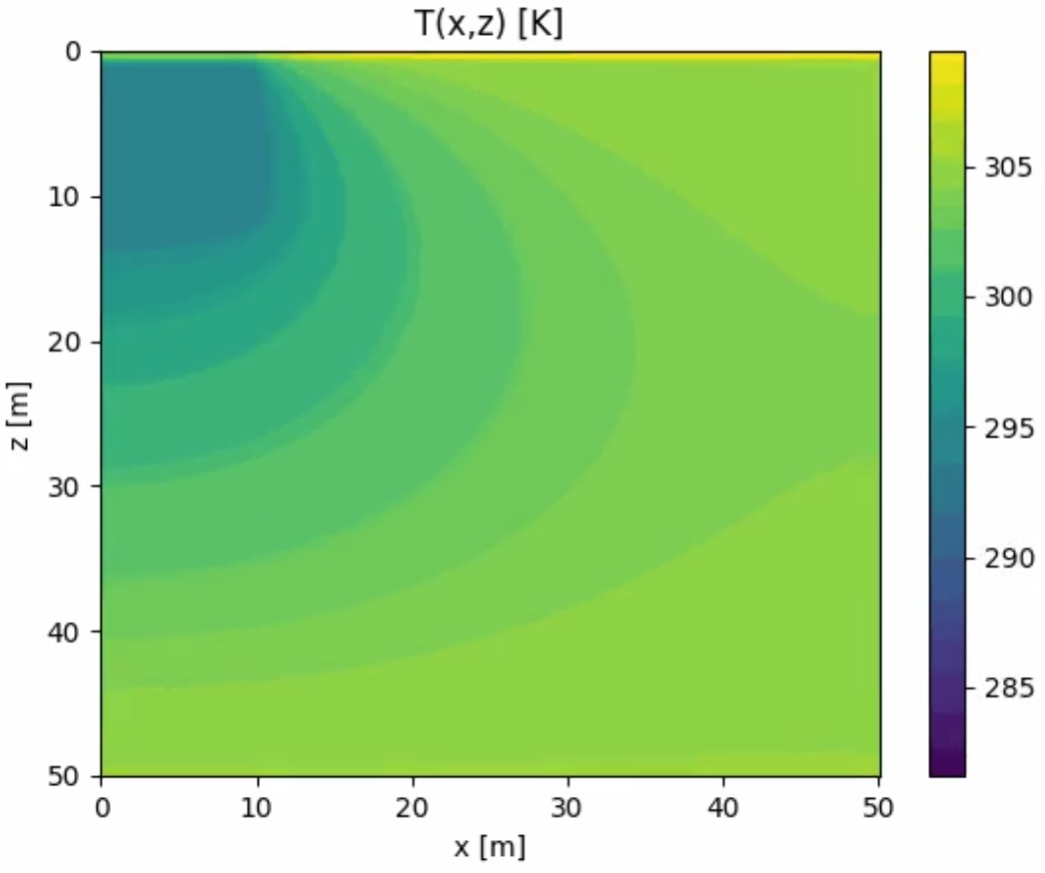
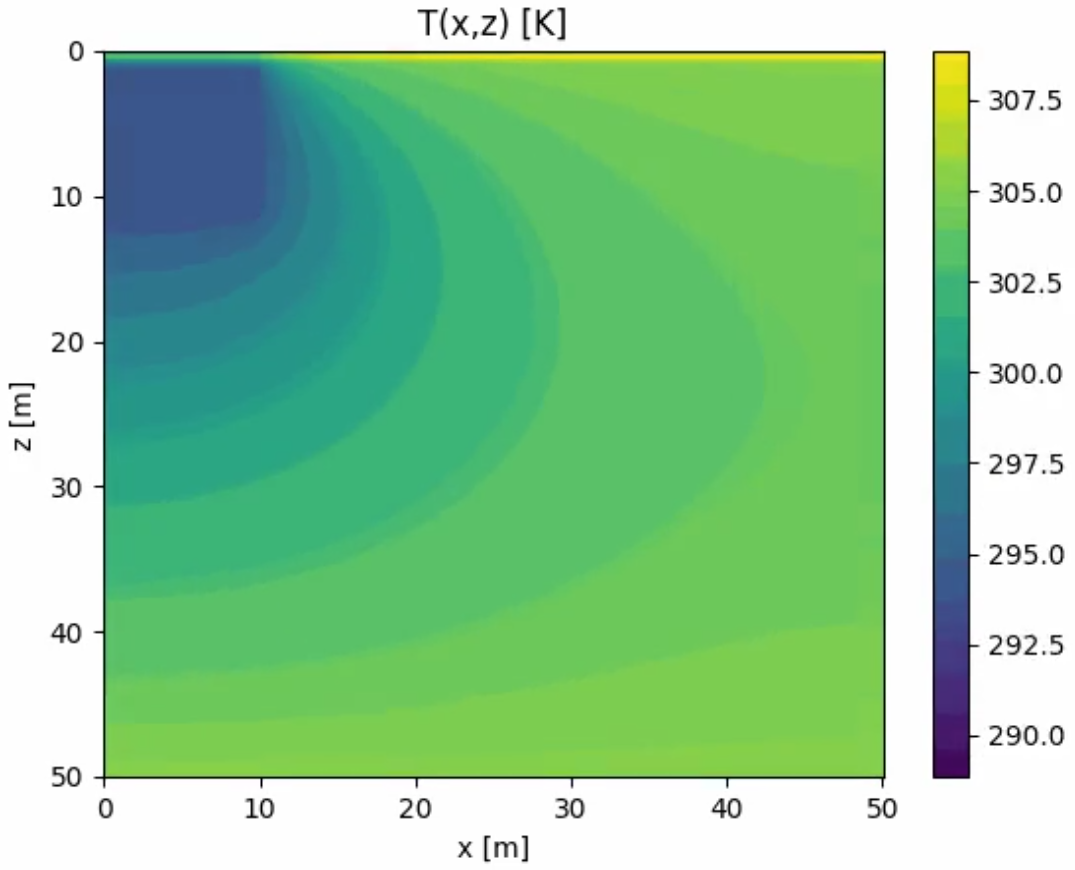
rwerwe

diff --git a/methode_matrice_2D_temporelle_optimisation.py b/methode_matrice_2D_temporelle_optimisation.py
@@ -15,6 +15,7 @@ from tqdm import tqdm
 from scipy.optimize import curve_fit
 from scipy.optimize import minimize
 from scipy.optimize import bisect
+
 def methode_matrice_2D_temporelle (planete, p, l_x, l_z, Lx, Lz, d ):
 
     with open('constants.yaml') as f:
@@ -53,6 +54,7 @@ def methode_matrice_2D_temporelle (planete, p, l_x, l_z, Lx, Lz, d ):
     dt = np.min([alpha*d**2/2, tau/5 ])
     nb_iterations = 100
     temps_deval = dt*nb_iterations
+    
     temps_deval = 2*tau
     dt = temps_deval/nb_iterations
 
@@ -62,6 +64,7 @@ def methode_matrice_2D_temporelle (planete, p, l_x, l_z, Lx, Lz, d ):
          ATTENTION! : CRITÈRE DE CONVERGENCE NON RESPECTÉ
             dt = {dt}, alpha*d^2={alpha*d**2}, tau = {tau}
         ##################################################""")    
+        dt = alpha*d**2
 
     # Définition de A_prime
     A_prime = M - dt*xi/(alpha*d**2)*A
@@ -99,6 +102,9 @@ def methode_matrice_2D_temporelle (planete, p, l_x, l_z, Lx, Lz, d ):
 
         # Plot du graphique au temps t
         Unr = np.reshape(Un_1,(Nz,Nx),order='F')
+        plot_temperature(x,z,Unr, f'temperature2d{n}')
+        images.append(imageio.v2.imread(f'temperature2d{n}.png'))
+        os.remove(f'temperature2d{n}.png')
         
         if t<tau:
             #ENERGIE CODE*****************************************************************************
@@ -125,6 +131,7 @@ def methode_matrice_2D_temporelle (planete, p, l_x, l_z, Lx, Lz, d ):
 
         n=n+1
 
+    imageio.v2.mimsave('temperatureEarth.gif', images)
     print("Energie totale (J/m) pour une periode de temps", (tau), "sec = ", (np.sum(np.array(Energy))/1000), "KJ/m")
     print(f""" 
 CALCUL TERMINÉ : ANIMATION SAUVEGARDÉE
@@ -136,51 +143,116 @@ with open('constants.yaml') as f:
     planets_constants = yaml.safe_load(f)
 
 p = 1   # Profondeur de l'abris [m]
-l_x = 1 # Largeur de l'abris en x [m]
-l_z = 1 # Hauteur de l'abris en z [m]
-Lx = 4 # Largeur du domaine [m]
-Lz = 4 # Hauteur du domaine [m]
+l_x = 15 # Largeur de l'abris en x [m]
+l_z = 10 # Hauteur de l'abris en z [m]
+Lx = 20 # Largeur du domaine [m]
+Lz = 20 # Hauteur du domaine [m]
 d = 0.05  # Pas de discrétisation [m]
 planete = "earth"
-profondeur = [0.25,0.6,1,1.3,1.7,2]
-largeur  = [5,10,20,30,40]
+tau = planets_constants[planete]['tau']
+Q_0 = planets_constants[planete]['Q_0']
 
-# Energy_requise = [5147136184.3522625, 2676382727.7976074, 1856341123.0519567, 1690660812.170097, 1670248406.849412, 1693532281.4559507, 1753859347.4736502, 1863887253.6476555, 2420828896.831327]
-# profondeur = [0.25,0.5,0.75,1,1.25,1.5,1.75,2,2.5]
-# Energy_requise_t = [253642678.83114666, 618932577.5651925, 1139178171.8183033, 1739438806.6334991, 2031815701.8194437, 2363014082.3926444, 2567477299.0788608, 2702821981.553166, 3515776000.5336275, 4887323176.337782, 6621310954.071945, 15274732819.35382]
+
+
+Energy_disponible = (Q_0*tau/(np.pi))*1000*0.19
+print("Energie disponible :", Energy_disponible, "KJ/jour")
+
+# print(methode_matrice_2D_temporelle(planete, p, l_x, l_z, Lx, Lz, d))
+
+d_list = [0.15,0.17,0.2,0.25,0.3,0.5,0.75]
+# Energie_list = [65610382.91315033, 43173995.03670958, 31558401.838820755, 39451633.83497372, 208487013.7098127, 176145684.42017445, 153719620.44568586, 139583791.73848617]
+
+Energie_list = [65610382.91315033, 59670447.64978681, 43173995.03670958, 31558401.838820755, 39451633.83497372, 139583791.73848617, 322522762.3537608] 
+
+#lx = 15, lz =10, Lx = Lz = 20
+# Energie_list = [196475307.62077984, 131671544.4179855, 95308964.76084466, 31558401.838820755, 139583791.73848617, 204576910.76623088]
+#autres dim
+#[16731666.046718024, 4023573.1418389753, 2821721.607497795, 1901417.384075963, 629413.6175423791, 1109636.5816942938]
+#d_list = [0.08,0.1,0.2,0.3,0.5,0.75,1,2]
+#[124380698.53162856, 95308964.76084466, 43173995.03670958, 39451633.83497372, 139583791.73848617, 322522762.3537608, 204576910.76623088, 51394814.59535041] 
+
+# for d in d_list:
+#     print("pas", d)
+#     Energie_list.append(methode_matrice_2D_temporelle(planete, p, l_x, l_z, Lx, Lz, d))
+Error = []
+for i in range(len(Energie_list)-1):
+    Error.append((abs(Energie_list[i+1]-Energie_list[i])/Energie_list[i])*100)
+
+d_list = [0.15,0.17,0.2,0.25,0.3,0.5]
+
+# Error_log = [np.log(0.09053346436380849), np.log(0.27645934064207023), np.log(0.2690414261643479), np.log(0.250115073521984), np.log(2.53809913988266), np.log(1.3106032465289057)]
+def fun_fit(x, A,b):
+    return A*x**b
+
+popt, pcov = curve_fit(fun_fit, d_list, Error)
+x_fit = np.linspace(0,1,100)
+y_fit = []
+A,p= popt
+for x in x_fit:
+    y_fit.append(fun_fit(x,A,p))
+
+
+# d_list = d_list = [0.15,0.2,0.25,0.3,0.35,0.4,0.45]
+
+
+plt.loglog(x_fit,y_fit,'--',label="Fit")
+plt.loglog(d_list, Error, 'o', label="Données d'erreur", color = 'darkblue')
+# plt.loglog(d_list,Energie_list)
+plt.legend()
+plt.xlabel("pas de discrétisation")
+plt.ylabel("Erreur%")
+plt.show()
+
+
+
+
+
+profondeur = [0.25,0.6,1,1.3,1.7,2]
+largeur  = [1,2,3,4,5,10]
+
 
 
 def optimisation(planete, profondeur, largeur):
     tau = planets_constants[planete]['tau']
     Q_0 = planets_constants[planete]['Q_0']
-    l_x = 15 # Largeur de l'abris en x [m]
-    l_z = 10 # Hauteur de l'abris en z [m]
-    Lx = 50 # Largeur du domaine [m]
-    Lz = 50  # Hauteur du domaine [m]
+    l_x = 1 # Largeur de l'abris en x [m]
+    l_z = 5 # Hauteur de l'abris en z [m]
+    Lx = 20 # Largeur du domaine [m]
+    Lz = 20  # Hauteur du domaine [m]
     d = 0.1  # Pas de discrétisation [m]
 
     Energy_disponible = (Q_0*tau/(np.pi))*1000*0.19
     print("Energie disponible :", Energy_disponible, "KJ/jour")
     
     #*************************************************************************************8
-    #OPTIMISATION l_x
-    Energy_requise = []
-    for p in profondeur:
-        Energy_requise.append(methode_matrice_2D_temporelle(planete,  p, l_x, l_z, Lx, Lz, d))
-    # Energy_requise = [214721941.08052045, 214764540.41342914, 214764540.41342914, 284274119.22576094, 5022213.781199989]
+    #OPTIMISATION PROFONDEUR
+    # Energy_requise = []
+    # for p in profondeur:
+    #     Energy_requise.append(methode_matrice_2D_temporelle(planete,  p, l_x, l_z, Lx, Lz, d))
+    ##Terre
+    # Energy_requise = [942627918.0116413, 260224745.95214584, 95308964.76084466, 84187696.88203554, 75922505.7547069, 70974485.12136276]
+    ##Mars
+    # Energy_requise = [280015361.70601636, 72252348.41086335, 78243119.09877847, 71135755.55708829, 64576797.532311894, 60551616.98685229]
+    #Venus 
+    # Energy_requise = [119186284629.17044, 116218753450.68849, 107824499576.25157, 102732135359.23335, 97581659024.5799, 93946272080.23279, 93475177087.7238, 93776791450.56203, 93963149703.15579, 96514118249.72557, 99984616834.86806, 109336983164.63033, 122873801140.39725]
+    # [1.66415228e+09,10,555, 8]
+    #Europe
+    Energy_requise = [471436019.0085587, 472688656.3120705, 472455658.91815466, 480262880.28744435, 483877583.93724173, 488643013.71045154]
+    
     print(Energy_requise)
     
-    def fun_fit(x, a, b, c):
+    def fun_fit(x, a, b, c, d):
         return a*np.exp(-x*b+d) +c*x
-
-    popt, pcov = curve_fit(fun_fit, profondeur, Energy_requise,p0=[1.66415228e+10,10,5])
-    x_fit = np.linspace(0.01,3,100)
+    
+    
+    popt, pcov = curve_fit(fun_fit, profondeur, Energy_requise,p0=[1.66415228e+09,10,555, 8])
+    x_fit = np.linspace(0.01,6,100)
     y_fit = []
-    a,b,c= popt
+    a,b,c,d= popt
     for x in x_fit:
-        y_fit.append(fun_fit(x,a,b,c))
-    plt.plot(x_fit, y_fit, label='Fit', color='skyblue')
-    plt.plot(profondeur, Energy_requise, label = "Données experimentales", color="royalblue")   
+        y_fit.append(fun_fit(x,a,b,c,d))
+    plt.plot(x_fit, y_fit, label='Fit', color='thistle')
+    plt.plot(profondeur, Energy_requise, label = "Données experimentales", color="mediumorchid")   
     plt.legend()
     plt.xlabel("Profondeur de l'abri (m)")
     plt.ylabel("Énergie requise (KJ/m)")
@@ -191,33 +263,48 @@ def optimisation(planete, profondeur, largeur):
     
     #******************************************************************************8
     #OPTIMISATION PROFONDEUR
+    tau = planets_constants[planete]['tau']
+    Q_0 = planets_constants[planete]['Q_0']
+    l_x = 1 # Largeur de l'abris en x [m]
+    l_z = 5 # Hauteur de l'abris en z [m]
+    Lx = 50 # Largeur du domaine [m]
+    Lz = 50  # Hauteur du domaine [m]
+    d = 0.5  # Pas de discrétisation [m]
     p = profondeur_min
-    Energy_requise_t = []
-    for lx in largeur:
-        Energy_requise_t.append(methode_matrice_2D_temporelle(planete,  p, lx,l_z, Lx, Lz, d))
-    # Energy_requise_t=[2232554.5460473737, 3317728.897117289, 7133443.381426456, 13055597.127677426, 21403571.44967444]
-    for i in range(len(Energy_requise_t)):
-        Energy_requise_t[i] = Energy_requise_t[i]*10
-
-    print(Energy_requise_t)
     
-    x_taille = np.linspace(0,50,100)
+    # Energy_requise_t = []
+    # for lx in largeur:
+    #     Energy_requise_t.append(methode_matrice_2D_temporelle(planete,  p, lx,l_z, Lx, Lz, d))
+    ##Terre
+    # Energy_requise_t = [1985970895.4919682, 6501747445.492055, 23950335090.794014, 52606796384.12155, 92464815246.6938]
+    #Mars
+    # Energy_requise_t = [8460416.018684648, 24312306.17983813, 85302659.05467126, 185213177.63627484, 323988901.744541]
+    #Venus 
+    # Energy_requise_t =[5849914393.710241, 8737551562.17036, 18463857441.52574, 33102588132.738346, 52486775311.47175]
+    #Europe
+    # Energy_requise_t = [1339696506.21129, 4382312936.379228, 16147678139.02944, 35472282112.57271, 62349748760.45685]
+    Energy_requise_t = [1210366.3437502955, 306048713.56937945, 531625279.5261729, 837550700.8609563, 1219670911.3887753, 4268229911.92946]
+    print(Energy_requise_t)
+    for i in range(len(Energy_requise_t)):
+        Energy_requise_t[i] = Energy_requise_t[i]*2
+    
+    x_taille = np.linspace(0,10,100)
     y_taille = []
     for i in range(len(x_taille)):
         y_taille.append(Energy_disponible)
 
-    def fun_fit(x, a, b, c):
-        return a*np.exp(x*b)+c*x
-    popt, pcov = curve_fit(fun_fit, largeur, Energy_requise_t)
-    x_fit = np.linspace(0,50,100)
+    def fun_fit(x, a, b, c,d):
+        return a*x**2+b*x+c
+    popt, pcov = curve_fit(fun_fit, largeur, Energy_requise_t, p0=[5,5,1,-100])
+    x_fit = np.linspace(0,10,100)
     y_fit = []
-    a,b,c= popt
+    a,b,c,d= popt
     for x in x_fit:
-        y_fit.append(fun_fit(x,a,b,c))
+        y_fit.append(fun_fit(x,a,b,c,d))
     
-    plt.title("profondeur = 1.339 m, lz = 2.5 m, ly = 1m")
-    plt.plot(x_fit, y_fit, label='Fit', color='skyblue') 
-    plt.plot(largeur, Energy_requise_t, label = "Données experimentales", color="royalblue")
+    plt.title("profondeur = 0.192 m, lz = 5 m, ly = 2m")
+    plt.plot(x_fit, y_fit, label='Fit', color='thistle') 
+    plt.plot(largeur, Energy_requise_t, label = "Données experimentales", color="mediumorchid")
     plt.plot(x_taille,y_taille, label="Limite Energetique", color="red")
     plt.legend()
     plt.xlabel("Dimensions lx (m)")
@@ -228,9 +315,9 @@ def optimisation(planete, profondeur, largeur):
     print(Energy_requise_t)
     
     print("Profondeur minimale : ", profondeur_min)
-    print("Taille maximale :", bisect(lambda x: fun_fit(x,a,b,c) - Energy_disponible, 0, 100))
+    print("Taille maximale :", bisect(lambda x: fun_fit(x,a,b,c,d) - Energy_disponible, 0, 100))
 
-optimisation(planete,profondeur,largeur)
+# optimisation(planete,profondeur,largeur)
 
 #taille ini = 1,45
 # Profondeur minimale :  1.0670707070707073
